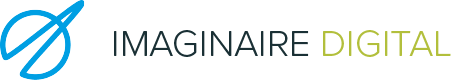
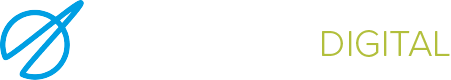
Customised login screen

diff --git a/login/custom-login-styles.css b/login/custom-login-styles.css
@@ -1,0 +1,43 @@
+body.login {
+  background-color: #50555e;
+  background-repeat: no-repeat;
+  background-attachment: fixed;
+  background-position: center;
+}
+.login h1 a {
+  background-image: url('../dist/images/imaginaire.png');
+  width: 225px;
+  height: 40px;
+  background-size: 100%;
+}
+.login form {
+	padding: 40px;
+}
+
+.login .message {
+	background-color: #29abe1;
+	color: #fff;
+	border: none;
+	text-align: center;
+}
+.login #nav, .login #backtoblog {
+	text-align: center;
+}
+.login #nav a, .login #backtoblog a {
+	color: #fff;
+	border-bottom: 1px dotted #fff;	
+}
+.login #nav a:hover, .login #backtoblog a:hover {
+	color: #eee;
+}
+.login #login_error {
+	border: none;
+	background-color: #dc3232;
+	color: #fff;
+	text-align: center;
+}
+.login #login_error a {
+	color: #fff;
+	text-decoration: none;
+	border-bottom: 1px dotted #fff;
+}

diff --git a/functions.php b/functions.php
@@ -30,10 +30,9 @@ foreach ($sage_includes as $file) {
 }
 unset($file, $filepath);
 
-// Load CMB2 for options pages
-if ( file_exists(  __DIR__ . '/cmb2/init.php' ) ) {
-  require_once  __DIR__ . '/cmb2/init.php';
-} elseif ( file_exists(  __DIR__ . '/CMB2/init.php' ) ) {
-  require_once  __DIR__ . '/CMB2/init.php';
-}
+// Custom Login
 
+function my_custom_login() {
+  echo '<link rel="stylesheet" type="text/css" href="' . get_bloginfo('stylesheet_directory') . '/login/custom-login-styles.css" />';
+}
+add_action('login_head', 'my_custom_login');

diff --git a/lib/setup.php b/lib/setup.php
@@ -157,3 +157,5 @@ if( function_exists('acf_add_options_page') ) {
   ));
   
 }
+
+
